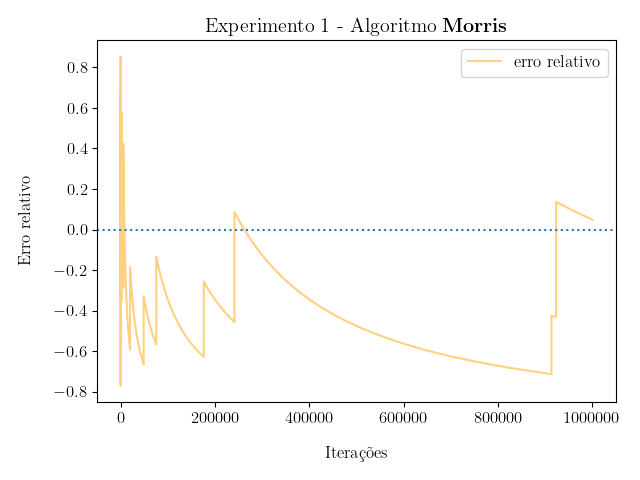
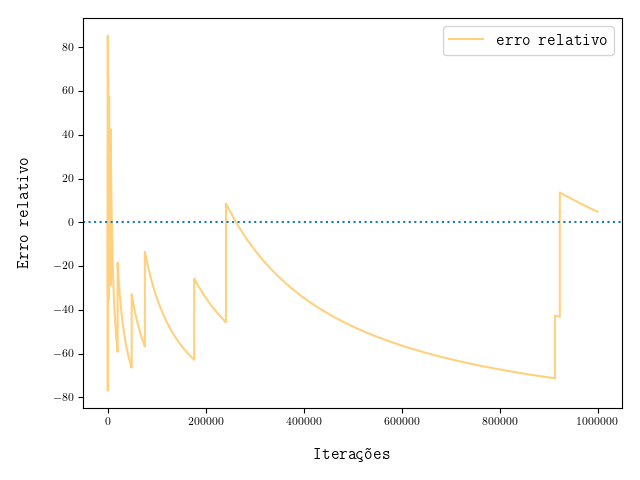
Atualiza imagens do capítulo Morris

diff --git a/monografia/conteudo/02-morris.tex b/monografia/conteudo/02-morris.tex
@@ -205,7 +205,6 @@ rótulo $X_3 = 3$.
   \includegraphics[scale=0.50]{figuras/morris-tree.png}
 	\caption{Árvore de decisão para determinar $\Ebb\big(2^{X_3} - 1\big)$ no algoritmo \proc{Morris}. A fração próxima de 
   cada folha indica a probabilidade de $X_3$ assumir o valor em seu rótulo.}\label{fig:morris-tree}
-
 \end{figure}  
 
 Inspecionando as folhas da árvore acima, vemos que
@@ -625,6 +624,26 @@ podemos usar um gerador de inteiros pseudo-aleatórios no lugar de~$g$ sem neces
 do algoritmo. As simulações a serem exibidas a seguir devem mostrar indícios que de fato, a precisão do algoritmo de 
 $\Morris$ não fica comprometida com essa mudança.
 
+\begin{figure}
+  \centering
+  \begin{subfigure}{.5\textwidth}
+    \centering
+    \includegraphics[width=\linewidth, height=4cm]{figuras/morris_first.png}
+    \caption{Estimativas}
+    \label{fig:morris:100}
+  \end{subfigure}%
+  \begin{subfigure}{.5\textwidth}
+    \centering
+    \includegraphics[width=\linewidth, height=4cm]{figuras/morris_erro_first.png}
+    \caption{Erro Relativo}
+    \label{fig:morris:error:100}
+  \end{subfigure}
+  \caption{Primeiras iterações do primeiro experimento do algoritmo~$\Morris$. Foram inseridos em uma 
+  estrutura~\texttt{Morris}, um milhão de elementos. Em outras palavras, o método~\texttt{adiciona} foi chamado um 
+  milhão de vezes. Depois de cada inserção, o resultado do método~\texttt{conta} foi utilizado para a construção dos 
+  gráficos com a evolução da estimativa e do erro relativo.}
+\end{figure}
+
 O primeiro experimento a ser apresentado é simular uma situação em que um milhão de elementos são inseridos na estrutura 
 \texttt{Morris}. Para fazermos isso, chamamos o método \texttt{adiciona} do Programa~\ref{morris:code} um milhão de 
 vezes. Para cada vez que executamos esse método, calculamos o erro relativo do algoritmo, ou seja, na $i$-ésima 
@@ -638,23 +657,9 @@ da \textbf{estimativa} de itens inseridos ao longo das iterações e a linha azu
 itens inseridos ao longo das iterações. Assim, analisando essas duas linhas, podemos ter uma ideia se a estimativa do 
 algoritmo se aproxima ou se distância do valor correto conforme mais iterações acontecem.
 
-\begin{figure}[h]
-  \centering
-  \includegraphics[height=6cm, width=\textwidth]{figuras/morris_first.png}
-	\caption{Simulação do algoritmo $\Morris$ (100 primeiras iterações)}
-  \label{fig:morris:100}
-\end{figure}
-
 No entanto, somente com esse gráfico, pode ser difícil visualizar o erro relativo do algoritmo ao longo das iterações. 
 É por isso que construímos também, o gráfico da Figura~\ref{fig:morris:error:100}, em que o eixo $x$ representa 
 novamente as iterações da simulação e o eixo $y$, o erro relativo.
-
-\begin{figure}[h]
-  \centering
-  \includegraphics[height=6cm, width=\textwidth]{figuras/morris_erro_first.png}
-	\caption{Erro relativo da simulação do algoritmo $\Morris$ (100 primeiras iterações)}
-  \label{fig:morris:error:100}
-\end{figure}
 
 Para as primeiras cem iterações da simulação, é possível perceber pela Figura~\ref{fig:morris:error:100}, que o erro 
 relativo não é maior que $0.8$. Na seção sobre a 
@@ -663,18 +668,23 @@ relativo cometido por $\Morris(\Mbb)$ é quase certamente menor do que 4. Nesse 
 está dentro do esperado. Vamos agora, verificar se esse resultado esperado se mantém conforme mais iterações são 
 realizadas.
 
-\begin{figure}[h]
+\begin{figure}
   \centering
-  \includegraphics[height=6cm, width=\textwidth]{figuras/morris_full.png}
-	\caption{Simulação do algoritmo $\Morris$ (todas as iterações)}
-  \label{fig:morris:1000000}
-\end{figure}
-
-\begin{figure}[h]
-  \centering
-  \includegraphics[height=6cm, width=\textwidth]{figuras/morris_erro_full.png}
-	\caption{Erro relativo da simulação do algoritmo $\Morris$ (todas as iterações)}
-  \label{fig:morris:error:1000000}
+  \begin{subfigure}{.5\textwidth}
+    \centering
+    \captionsetup{justification=centering}
+    \includegraphics[width=\linewidth, height=4cm]{figuras/morris_full.png}
+    \caption{Estimativas}
+    \label{fig:morris:1000000}
+  \end{subfigure}%
+  \begin{subfigure}{.5\textwidth}
+    \centering
+    \captionsetup{justification=centering}
+    \includegraphics[width=\linewidth, height=4cm]{figuras/morris_erro_full.png}
+	  \caption{Erro Relativo}
+    \label{fig:morris:error:1000000}
+  \end{subfigure}
+  \caption{Todas as iterações do primeiro experimento do algoritmo~$\Morris$.}
 \end{figure}
 
 A Figura~\ref{fig:morris:error:1000000}, que exibe um gráfico com erro relativo ao longo de toda a simulação, nos leva
@@ -686,6 +696,14 @@ contador~$X$ ser incrementado no algoritmo~$\Morris$. Contudo, esse incremento d
 vez que, existem casos nessa simulação em que um crescimento da estimativa ocorreu em menos iterações que o 
 crescimento anterior. 
 
+\begin{figure}[h]
+  \centering
+  \includegraphics[height=4cm, width=.5\textwidth]{figuras/morris_interval.png}
+	\caption{Situação no primeiro experimento do algoritmo $\Morris$, em que o contador foi incrementado mais cedo que o 
+  esperado. As linhas verticais indicam as iterações nas quais ocorreram um incremento do contador. }
+  \label{fig:morris:interval}
+\end{figure}
+
 Uma dessas situações pode ser vista na Figura~\ref{fig:morris:interval}. Nessa figura, as linhas verticais indicam as 
 iterações nas quais o contador foi incrementado. Assim, o contador foi incrementado nas iterações de números 75720, 
 176384 e 241343. 
@@ -696,10 +714,12 @@ $241343 - 176384 = 64959$~iterações.
 
 \begin{figure}[h]
   \centering
-  \includegraphics[height=6cm, width=\textwidth]{figuras/morris_interval.png}
-	\caption{Situação em que o contador foi incrementado mais cedo que o esperado. As linhas verticais indicam as 
-  iterações nas quais ocorreram um incremento do contador. }
-  \label{fig:morris:interval}
+  \includegraphics[height=4cm, width=.5\textwidth]{figuras/morris_variance.png}
+	\caption{Segundo experimento do algoritmo $\Morris$. Foram realizadas dez mil simulações. Em cada simulação, foram 
+  inseridos um milhão de elementos em uma estrutura~\texttt{Morris} e ao final de todas as inserções, o resultados do 
+  método~\texttt{conta} foi utilizado para construir o gráfico com as distribuições das estimativas devolvidas pelo 
+  algoritmo.}
+  \label{fig:morris:variance}
 \end{figure}
 
 O próximo experimento a ser apresentado consiste em repetir a simulação anterior várias vezes para que possamos ter uma 
@@ -709,14 +729,6 @@ Figura~\ref{fig:morris:variance}, e para construir o eixo das abcissas, utilizam
 classe \texttt{Morris} após todos os elementos terem sido inseridos. Nesse sentido, esse eixo apresentará em quantas 
 simulações o contador~\texttt{X} terminou por exemplo, com o valor 19. Nos experimentos realizados, isso aconteceu 3617 
 vezes.
-
-\begin{figure}[h]
-  \centering
-  \includegraphics[height=6cm, width=\textwidth]{figuras/morris_variance.png}
-	\caption{Distribuição da estimativa devolvida pela estrutura~\texttt{Morris} em dez mil simulações, nas quais
-  chamamos o método~\texttt{adiciona} um milhão de vezes e guardamos o retorno do método~\texttt{conta}.}
-  \label{fig:morris:variance}
-\end{figure}
 
 Analisando a Figura~\ref{fig:morris:variance}, podemos concluir que na maioria dos casos, o erro relativo do 
 algoritmo~$\Morris$ ficou menor ou igual que 4, como foi previsto em~\eqref{morris:error:result}. A melhor aproximação 
@@ -728,6 +740,7 @@ Dessa forma, podemos partir para a implementação da versão aprimorada desse a
 base~$\Morrispp$. Como no algoritmo~$\Morrispp$, utilizamos o algoritmo~$\Morris$ como subrotina, vamos aproveitar o 
 fato que temos a classe \texttt{Morris} já implementada e utilizá-la para implementar a classe~\texttt{MorrisPlus}.
 
+\newpage
 \begin{lstlisting}[style=mypython,caption=Implementação do algoritmo $\Morrispp$,captionpos=b, label=morris:plus:code]
 class MorrisPlus:
   def __init__(self, t: int):
@@ -756,18 +769,30 @@ Vamos, agora, repetir os mesmos experimentos feitos para a estrutura \texttt{Mor
 poderemos comparar os resultados deles com as contas desenvolvidas na seção sobre como 
 \hyperref[sec:morris:plus]{aprimorar o algoritmo~$\Morris$}.
 
+\begin{figure}
+  \centering
+  \begin{subfigure}{.5\textwidth}
+    \centering
+    \includegraphics[height=4cm, width=\linewidth]{figuras/morris_plus_full.png}
+    \caption{Estimativas}
+    \label{fig:morris:plus:full}
+  \end{subfigure}%
+  \begin{subfigure}{.5\textwidth}
+    \centering
+    \captionsetup{justification=centering}
+    \includegraphics[width=\linewidth, height=4cm]{figuras/morris_plus_erro_full.png}
+	  \caption{Erro Relativo}
+    \label{fig:morris:plus:erro:full}
+  \end{subfigure}
+  \caption{Primeiro experimento do algoritmo~$\Morrispp$. Foram inseridos em um estrutura~\texttt{MorrisPlus}, um milhão
+  de elementos.}
+\end{figure}
+
 O primeiro experimento a ser repetido é aquele em que desejamos observar a evolução do estimador devolvido pela 
 estrutura~\texttt{MorrisPlus}. Para isso, chamamos o método \texttt{adiciona} um milhão de vezes e construímos o 
 gráfico com as estimativas ao longos das chamadas dessa função. O resultado dessa simulação pode ser visto na 
 Figura~\ref{fig:morris:plus:full}, em que podemos notar que a linha laranja, que representa as estimativas devolvidas, 
 se aproxima bastante da linha azul, que representa os valores esperados.
-
-\begin{figure}[h]
-  \centering
-  \includegraphics[height=6cm, width=\textwidth]{figuras/morris_plus_full.png}
-	\caption{Simulação do algoritmo~$\Morrispp$ com $t = 1000$ (todas as iterações)}
-  \label{fig:morris:plus:full}
-\end{figure}
 
 A Figura~\ref{fig:morris:plus:erro:full} exibe um gráfico com a evolução do erro relativo cometido pela estrutura
 ~\texttt{MorrisPlus} ao longo das iterações da simulação anterior. Em \eqref{morris:plus:expected_result}, foi previsto
@@ -778,27 +803,22 @@ Podemos, assim, desconsiderar essas iterações iniciais e ver como o erro evolu
 Figura~\ref{fig:morris:plus:erro:sem:first} ilustra essa situação, e é possível perceber que o desvio cometido foi menor
 que $5\%$, que está dentro do previsto.
 
-\newpage
-\begin{figure}[h]
+\begin{figure}
   \centering
-  \includegraphics[height=6cm, width=\textwidth]{figuras/morris_plus_erro_full.png}
-	\caption{Erro relativo da simulação do algoritmo~$\Morrispp$ com $t = 1000$ (todas as iterações)}
-  \label{fig:morris:plus:erro:full}
-\end{figure}
-
-\begin{figure}[h]
-  \centering
-  \includegraphics[height=6cm, width=\textwidth]{figuras/morris_plus_erro_first.png}
-	\caption{Erro relativo da simulação do algoritmo~$\Morrispp$ com $t = 1000$ (50 primeiras iterações)}
-  \label{fig:morris:plus:erro:first}
-\end{figure}
-
-\newpage
-\begin{figure}[h]
-  \centering
-  \includegraphics[height=6cm, width=\textwidth]{figuras/morris_plus_erro_sem_first.png}
-	\caption{Erro relativo da simulação do algoritmo~$\Morrispp$ com $t = 1000$ (desconsiderando as 50 primeiras iterações)}
-  \label{fig:morris:plus:erro:sem:first}
+  \begin{subfigure}{.5\textwidth}
+    \centering
+    \includegraphics[height=4cm, width=\linewidth]{figuras/morris_plus_erro_first.png}
+    \caption{50 primeiras iterações}
+    \label{fig:morris:plus:erro:first}
+  \end{subfigure}%
+  \begin{subfigure}{.5\textwidth}
+    \centering
+    \captionsetup{justification=centering}
+    \includegraphics[height=4cm, width=\textwidth]{figuras/morris_plus_erro_sem_first.png}
+	  \caption{Desconsiderando as 50 primeiras iterações}
+    \label{fig:morris:plus:erro:sem:first}
+  \end{subfigure}
+  \caption{Erro relativo do primeiro experimento do algoritmo~$\Morrispp$.}
 \end{figure}
 
 Podemos, agora, partir para o segundo experimento do algoritmo~$\Morrispp$, cujo objetivo é verificar a variância dele.
@@ -809,10 +829,10 @@ esperado, que é de $10\%$.
 
 \begin{figure}[h]
   \centering
-  \includegraphics[height=6cm, width=\textwidth]{figuras/morris_plus_variance.png}
-	\caption{Histograma dos resultados das 100 simulações da estrutura de dados \texttt{MorrisPlus} com $t = 1000$. Cada 
-  simulação consistiu em chamar o método \texttt{adiciona} um milhão de vezes e no final, guardar o retorno do método 
-  \texttt{conta}.}
+  \includegraphics[height=4cm, width=.5\textwidth]{figuras/morris_plus_variance.png}
+	\caption{Segundo experimento do algoritmo~$\Morrispp$. Foram realizadas mil simulações e em cada simulação, foram 
+  inseridos um milhão de elementos em uma estrutura~$\Morrispp$. Ao final de todas as inserções, as estimativas 
+  devolvidas foram usadas para construir o histograma de frequências.}
   \label{fig:morris:plus:variance}
 \end{figure}
 

diff --git a/estruturas/morris/plot_morris_plus_simulation_01.py b/estruturas/morris/plot_morris_plus_simulation_01.py
@@ -6,7 +6,7 @@ import matplotlib.pyplot as plt
 
 matplotlib.rcParams["text.usetex"] = True
 font = {
-    "family": "normal",
+    "family": "monospace",
     "weight": "bold",
     "size": 12,
 }
@@ -36,12 +36,15 @@ if __name__ == "__main__":
         ax.set_title(r"Experimento 1 - Algoritmo \textbf{Morris++}")
         ax.legend()
         ax.ticklabel_format(style="plain")
+        ax.tick_params(axis="x", labelsize=8)
+        ax.tick_params(axis="y", labelsize=8)
         plt.tight_layout()
         plt.show()
 
-    def desenha_grafico_02(inicio=0, fim=-1, xticks: List[int] = []):
+    def desenha_grafico_02(inicio=0, fim=-1, xticks: List[int] = [], erro_esperado: int = 0):
         _, ax = plt.subplots()
-        ax.plot(contadores_esperados[inicio:fim], erro_relativo[inicio:fim], alpha=0.5, color="orange")
+        erro_relativo_100 = list(map(lambda erro: 100 * erro, erro_relativo))
+        ax.plot(contadores_esperados[inicio:fim], erro_relativo_100[inicio:fim], alpha=0.5, color="orange")
         ax.set_xlabel("Iterações", labelpad=15)
         ax.set_ylabel("Erro relativo", labelpad=15)
         ax.set_title(r"Experimento 1 - Algoritmo \textbf{Morris++}")
@@ -51,10 +54,29 @@ if __name__ == "__main__":
         if xticks:
             ax.set_xticks(xticks)
 
+        if erro_esperado:
+            ax.axhline(
+                y=erro_esperado,
+                xmin=0,
+                xmax=1000000,
+                linestyle=":",
+            )
+            ax.axhline(
+                y=-erro_esperado,
+                xmin=0,
+                xmax=1000000,
+                linestyle=":",
+            )
+
+            new_yticks = list(set(list(ax.get_yticks()) + [erro_esperado, -erro_esperado]))
+            ax.set_yticks(new_yticks)
+
+        ax.tick_params(axis="x", labelsize=8)
+        ax.tick_params(axis="y", labelsize=8)
         plt.tight_layout()
         plt.show()
 
     desenha_grafico_01()
-    desenha_grafico_02()
-    desenha_grafico_02(fim=50)
-    desenha_grafico_02(inicio=50, xticks=[50, 250000, 500000, 750000, 1000000])
+    desenha_grafico_02(erro_esperado=10)
+    desenha_grafico_02(fim=50, erro_esperado=10)
+    desenha_grafico_02(inicio=50, xticks=[50, 250000, 500000, 750000, 1000000], erro_esperado=10)

diff --git a/estruturas/morris/run_and_plot_morris_simulation_01.py b/estruturas/morris/run_and_plot_morris_simulation_01.py
@@ -8,7 +8,7 @@ from morris import Morris
 
 matplotlib.rcParams["text.usetex"] = True
 font = {
-    "family": "normal",
+    "family": "monospace",
     "weight": "bold",
     "size": 12,
 }
@@ -55,6 +55,8 @@ def constroi_grafico(
     ax.set_title(r"Experimento 1 - Algoritmo \textbf{Morris}")
     ax.legend()
     ax.ticklabel_format(style="plain")
+    ax.tick_params(axis="x", labelsize=8)
+    ax.tick_params(axis="y", labelsize=8)
     plt.tight_layout()
     plt.show()
 
@@ -81,6 +83,8 @@ def constroi_grafico_erro_relativo(
     ax.set_title(r"Experimento 1 - Algoritmo \textbf{Morris}")
     ax.legend()
     ax.ticklabel_format(style="plain")
+    ax.tick_params(axis="x", labelsize=8)
+    ax.tick_params(axis="y", labelsize=8)
     plt.tight_layout()
     plt.show()
 
@@ -100,7 +104,8 @@ if __name__ == "__main__":
         morris.adiciona()
         contadores_devolvidos_por_morris.append(morris.conta())
         contadores_esperados.append(i)
-        erro_relativo.append((morris.conta() - i) / i)
+        erro = (morris.conta() - i) / i
+        erro_relativo.append(erro * 100)
 
     constroi_grafico(
         contadores_esperados,

diff --git a/estruturas/morris/plot_morris_plus_simulation_02.py b/estruturas/morris/plot_morris_plus_simulation_02.py
@@ -7,7 +7,7 @@ matplotlib.rcParams["text.usetex"] = True
 font = {
     "family": "normal",
     "weight": "bold",
-    "size": 14,
+    "size": 12,
 }
 matplotlib.rc("font", **font)
 
@@ -33,7 +33,8 @@ if __name__ == "__main__":
     ax.set_xlabel("Estimativas", labelpad=15)
     ax.set_ylabel("Frequência", labelpad=15)
     ax.set_xticks([900000, 975000, 1000000, 1025000, 1100000])
-    ax.tick_params(axis="x", labelsize=10)
+    ax.tick_params(axis="x", labelsize=8)
+    ax.tick_params(axis="x", labelsize=8)
     plt.ticklabel_format(style="plain")
     ax.set_title(r"Experimento 2 - Algoritmo \textbf{Morris++}")
     plt.tight_layout()

diff --git a/estruturas/morris/plot_morris_simulation_02.py b/estruturas/morris/plot_morris_simulation_02.py
@@ -28,8 +28,10 @@ if __name__ == "__main__":
 
     p1 = ax.bar(X_log, Y, tick_label=labels, alpha=0.5, color="orange")
     ax.bar_label(p1, label_type="edge", font={"size": 10})
-    ax.set_xlabel(r"Valor de $X$ ao final da simulação", labelpad=15)
+    ax.set_xlabel(r"Valor do contador $X$ ao final da simulação", labelpad=15)
     ax.set_ylabel("Frequência", labelpad=15)
-    ax.set_title(r"Experimento 2 - Algortimo \textbf{Morris}")
+    ax.tick_params(axis="x", labelsize=8)
+    ax.tick_params(axis="y", labelsize=8)
+    ax.set_title(r"Experimento 2 - Algoritmo \textbf{Morris}")
     plt.tight_layout()
     plt.show()
